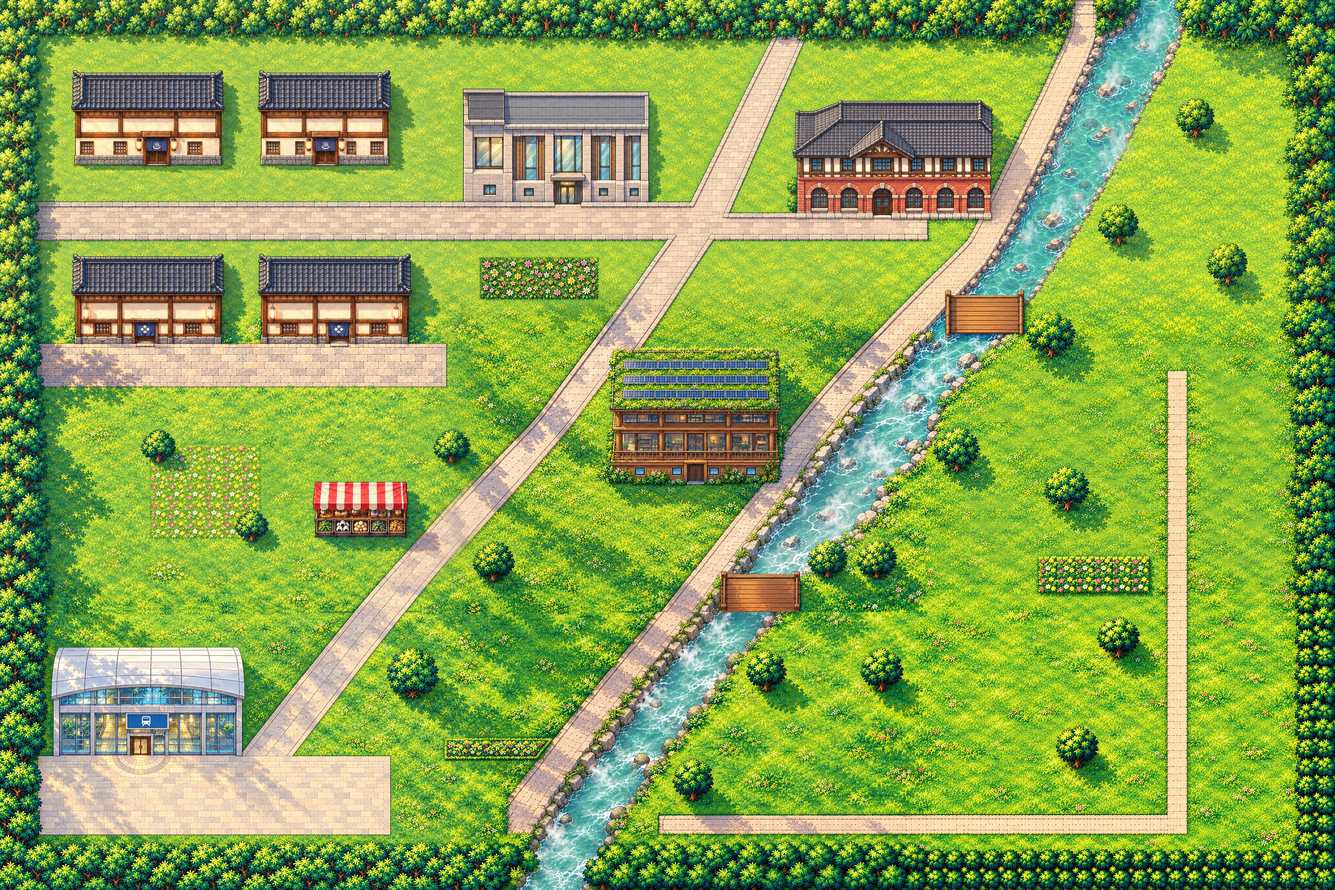
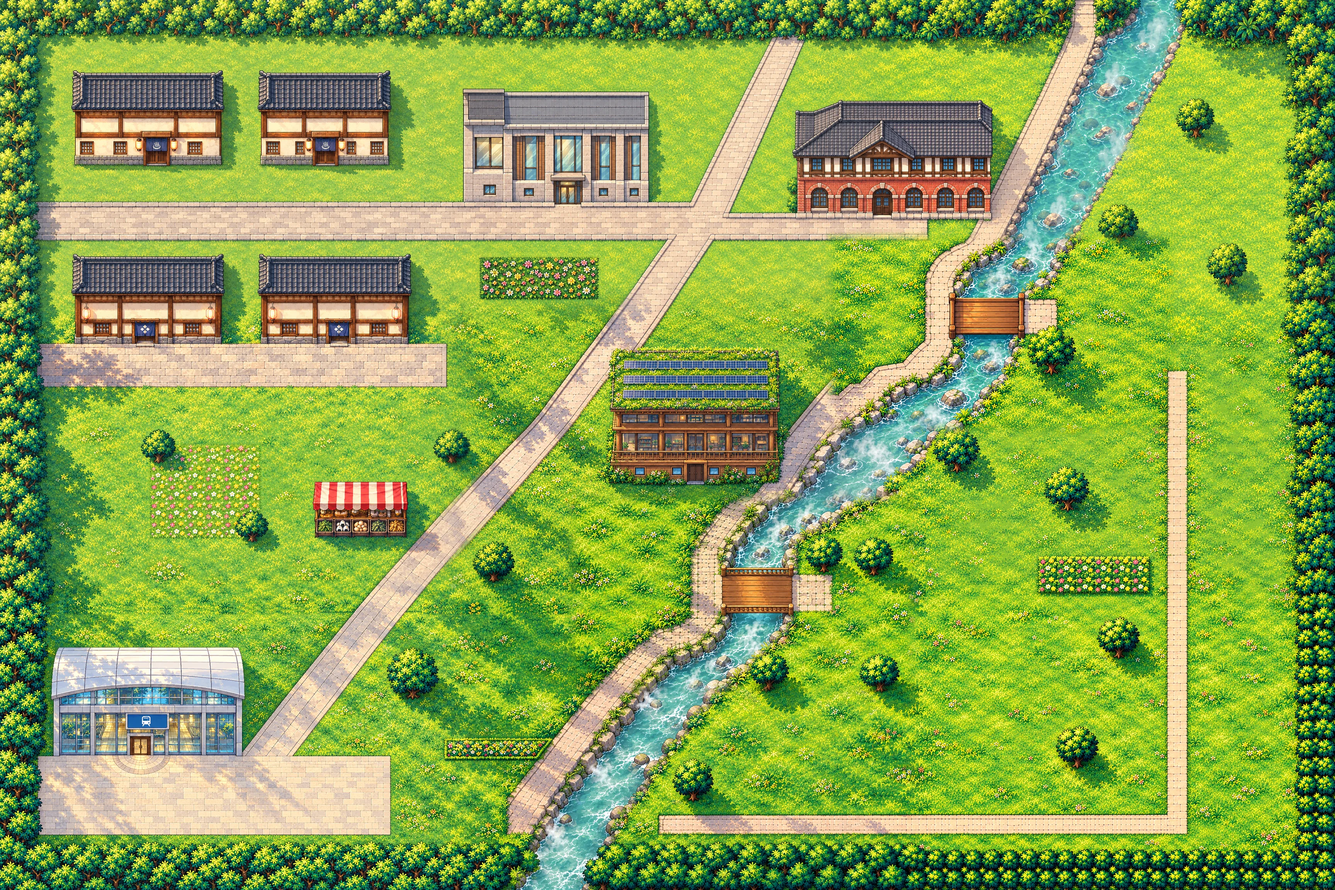
勇者大冒險II — v0.4：北投溪兩座木橋重畫擺正（溪在橋下改直流、兩端接上步道與平台）；野怪每張圖 4～8 隻、活動範圍放大到整片草地（不跨溪、不進街區）；發布腳本改用 PowerShell 7

Changed region(s): [[0.4062, 0.5312, 0.6875, 0.7812], [0.5938, 0.25, 0.9062, 0.5]]

diff --git a/index.html b/index.html
@@ -11,16 +11,16 @@
 <meta name="viewport" content="width=device-width, initial-scale=1, viewport-fit=cover">
 <meta name="description" content="勇者大冒險II（怪盜與家鄉的印章）：給國小四年級的學習冒險遊戲">
 <title>勇者大冒險II</title>
-<link rel="icon" href="assets/ui/icon-192.png?v=946e16a7f0" type="image/png">
+<link rel="icon" href="assets/ui/icon-192.png?v=593367495e" type="image/png">
 <!-- 加入主畫面：Android／Chrome 用 manifest；iPad／iPhone Safari 用下面的 apple-* 設定 -->
-<link rel="manifest" href="manifest.webmanifest?v=946e16a7f0">
+<link rel="manifest" href="manifest.webmanifest?v=593367495e">
 <meta name="theme-color" content="#1d2b5e">
 <meta name="apple-mobile-web-app-capable" content="yes">
 <meta name="mobile-web-app-capable" content="yes">
 <meta name="apple-mobile-web-app-title" content="勇者大冒險II">
 <meta name="apple-mobile-web-app-status-bar-style" content="black-translucent">
-<link rel="apple-touch-icon" href="assets/ui/icon-180.png?v=946e16a7f0">
-<link rel="stylesheet" href="src/ui/style.css?v=946e16a7f0">
+<link rel="apple-touch-icon" href="assets/ui/icon-180.png?v=593367495e">
+<link rel="stylesheet" href="src/ui/style.css?v=593367495e">
 </head>
 <body>
 <!-- 遊戲畫面（Phaser 畫布會放在這裡） -->
@@ -38,104 +38,104 @@
 <noscript><p class="noscript">這個遊戲需要開啟 JavaScript 才能玩。</p></noscript>
 
 <!-- 遊戲引擎：Phaser 4.2.1（MIT，本機保存一份，不連 CDN） -->
-<script src="data/version.js?v=946e16a7f0"></script>
-<script src="lib/phaser.min.js?v=946e16a7f0"></script>
+<script src="data/version.js?v=593367495e"></script>
+<script src="lib/phaser.min.js?v=593367495e"></script>
 <!-- QR Code：qrcode-generator 2.0.4（MIT，本機保存一份） -->
-<script src="lib/qrcode.js?v=946e16a7f0"></script>
+<script src="lib/qrcode.js?v=593367495e"></script>
 
 <!-- 題庫：四年級切片題庫（數學 1、自然 1、社會 1、國語 1–3 課、英語 Unit 1；GDD 3.5） -->
-<script src="data/questions.js?v=946e16a7f0"></script>
+<script src="data/questions.js?v=593367495e"></script>
 <!-- 課程表（地圖→節點累加、配比）、教學卡與賢者教學（GDD 3.2–3.4、7.3 C1–C5；老闆裁示第 10 條） -->
-<script src="data/curriculum.js?v=946e16a7f0"></script>
-<script src="data/teachcards.js?v=946e16a7f0"></script>
+<script src="data/curriculum.js?v=593367495e"></script>
+<script src="data/teachcards.js?v=593367495e"></script>
 
 <!-- 世界資料（劇情設計師、CTO 撰寫） -->
-<script src="data/tilesets.js?v=946e16a7f0"></script>
-<script src="data/tile_frames.js?v=946e16a7f0"></script>
-<script src="data/maps.js?v=946e16a7f0"></script>
-<script src="data/quests.js?v=946e16a7f0"></script>
-<script src="data/dialogs.js?v=946e16a7f0"></script>
-<script src="data/monsters.js?v=946e16a7f0"></script>
-<script src="data/items.js?v=946e16a7f0"></script>
-<script src="data/jobs.js?v=946e16a7f0"></script>
-<script src="data/world.js?v=946e16a7f0"></script>
-<script src="data/sprites.js?v=946e16a7f0"></script>
-<script src="data/dev_world.js?v=946e16a7f0"></script>
-<script src="data/art_manifest.js?v=946e16a7f0"></script>
+<script src="data/tilesets.js?v=593367495e"></script>
+<script src="data/tile_frames.js?v=593367495e"></script>
+<script src="data/maps.js?v=593367495e"></script>
+<script src="data/quests.js?v=593367495e"></script>
+<script src="data/dialogs.js?v=593367495e"></script>
+<script src="data/monsters.js?v=593367495e"></script>
+<script src="data/items.js?v=593367495e"></script>
+<script src="data/jobs.js?v=593367495e"></script>
+<script src="data/world.js?v=593367495e"></script>
+<script src="data/sprites.js?v=593367495e"></script>
+<script src="data/dev_world.js?v=593367495e"></script>
+<script src="data/art_manifest.js?v=593367495e"></script>
 <!-- 語音：說話者音色設定（劇情設計師）、預錄音檔清單（tools/pack_assets.py 產生） -->
-<script src="data/voices.js?v=946e16a7f0"></script>
-<script src="data/voice_manifest.js?v=946e16a7f0"></script>
-<script src="data/dev_sprites.js?v=946e16a7f0"></script>
+<script src="data/voices.js?v=593367495e"></script>
+<script src="data/voice_manifest.js?v=593367495e"></script>
+<script src="data/dev_sprites.js?v=593367495e"></script>
 
 <!-- 可調參數 -->
-<script src="src/config.js?v=946e16a7f0"></script>
+<script src="src/config.js?v=593367495e"></script>
 
 <!-- 系統邏輯（可在 node 測試） -->
-<script src="src/systems/exp.js?v=946e16a7f0"></script>
-<script src="src/systems/answer.js?v=946e16a7f0"></script>
-<script src="src/systems/rewards.js?v=946e16a7f0"></script>
-<script src="src/systems/adaptive.js?v=946e16a7f0"></script>
-<script src="src/systems/hints.js?v=946e16a7f0"></script>
-<script src="src/systems/guard.js?v=946e16a7f0"></script>
-<script src="src/systems/daily.js?v=946e16a7f0"></script>
-<script src="src/systems/playtime.js?v=946e16a7f0"></script>
-<script src="src/systems/state.js?v=946e16a7f0"></script>
-<script src="src/systems/bestiary.js?v=946e16a7f0"></script>
-<script src="src/systems/parentgate.js?v=946e16a7f0"></script>
-<script src="src/systems/save.js?v=946e16a7f0"></script>
-<script src="src/systems/savecode.js?v=946e16a7f0"></script>
-<script src="src/systems/saveprovider.js?v=946e16a7f0"></script>
-<script src="src/systems/counter.js?v=946e16a7f0"></script>
-<script src="src/systems/savetip.js?v=946e16a7f0"></script>
-<script src="src/systems/quest.js?v=946e16a7f0"></script>
-<script src="src/systems/report.js?v=946e16a7f0"></script>
-<script src="src/systems/curriculum.js?v=946e16a7f0"></script>
-<script src="src/systems/session.js?v=946e16a7f0"></script>
-<script src="src/systems/shop.js?v=946e16a7f0"></script>
-<script src="src/systems/world.js?v=946e16a7f0"></script>
-<script src="src/systems/character.js?v=946e16a7f0"></script>
-<script src="src/systems/battle.js?v=946e16a7f0"></script>
-<script src="src/systems/jobtrial.js?v=946e16a7f0"></script>
-<script src="src/systems/questlog.js?v=946e16a7f0"></script>
-<script src="src/systems/chests.js?v=946e16a7f0"></script>
-<script src="src/systems/pathfind.js?v=946e16a7f0"></script>
-<script src="src/systems/move8.js?v=946e16a7f0"></script>
-<script src="src/systems/dirrows.js?v=946e16a7f0"></script>
-<script src="src/systems/texrelease.js?v=946e16a7f0"></script>
-<script src="src/systems/worldmap.js?v=946e16a7f0"></script>
-<script src="src/systems/dialogtext.js?v=946e16a7f0"></script>
-<script src="src/systems/rarechars.js?v=946e16a7f0"></script>
-<script src="src/systems/zoom.js?v=946e16a7f0"></script>
-<script src="src/systems/feedback.js?v=946e16a7f0"></script>
-<script src="src/systems/mapinfo.js?v=946e16a7f0"></script>
-<script src="src/systems/petfollow.js?v=946e16a7f0"></script>
+<script src="src/systems/exp.js?v=593367495e"></script>
+<script src="src/systems/answer.js?v=593367495e"></script>
+<script src="src/systems/rewards.js?v=593367495e"></script>
+<script src="src/systems/adaptive.js?v=593367495e"></script>
+<script src="src/systems/hints.js?v=593367495e"></script>
+<script src="src/systems/guard.js?v=593367495e"></script>
+<script src="src/systems/daily.js?v=593367495e"></script>
+<script src="src/systems/playtime.js?v=593367495e"></script>
+<script src="src/systems/state.js?v=593367495e"></script>
+<script src="src/systems/bestiary.js?v=593367495e"></script>
+<script src="src/systems/parentgate.js?v=593367495e"></script>
+<script src="src/systems/save.js?v=593367495e"></script>
+<script src="src/systems/savecode.js?v=593367495e"></script>
+<script src="src/systems/saveprovider.js?v=593367495e"></script>
+<script src="src/systems/counter.js?v=593367495e"></script>
+<script src="src/systems/savetip.js?v=593367495e"></script>
+<script src="src/systems/quest.js?v=593367495e"></script>
+<script src="src/systems/report.js?v=593367495e"></script>
+<script src="src/systems/curriculum.js?v=593367495e"></script>
+<script src="src/systems/session.js?v=593367495e"></script>
+<script src="src/systems/shop.js?v=593367495e"></script>
+<script src="src/systems/world.js?v=593367495e"></script>
+<script src="src/systems/character.js?v=593367495e"></script>
+<script src="src/systems/battle.js?v=593367495e"></script>
+<script src="src/systems/jobtrial.js?v=593367495e"></script>
+<script src="src/systems/questlog.js?v=593367495e"></script>
+<script src="src/systems/chests.js?v=593367495e"></script>
+<script src="src/systems/pathfind.js?v=593367495e"></script>
+<script src="src/systems/move8.js?v=593367495e"></script>
+<script src="src/systems/dirrows.js?v=593367495e"></script>
+<script src="src/systems/texrelease.js?v=593367495e"></script>
+<script src="src/systems/worldmap.js?v=593367495e"></script>
+<script src="src/systems/dialogtext.js?v=593367495e"></script>
+<script src="src/systems/rarechars.js?v=593367495e"></script>
+<script src="src/systems/zoom.js?v=593367495e"></script>
+<script src="src/systems/feedback.js?v=593367495e"></script>
+<script src="src/systems/mapinfo.js?v=593367495e"></script>
+<script src="src/systems/petfollow.js?v=593367495e"></script>
 
 <!-- 引擎與畫面 -->
-<script src="src/engine/audio.js?v=946e16a7f0"></script>
-<script src="src/engine/sfx.js?v=946e16a7f0"></script>
-<script src="src/engine/voice.js?v=946e16a7f0"></script>
+<script src="src/engine/audio.js?v=593367495e"></script>
+<script src="src/engine/sfx.js?v=593367495e"></script>
+<script src="src/engine/voice.js?v=593367495e"></script>
 <!-- 音樂（作曲家）：music.js 還沒完成時，遊戲用 typeof JQ.Music 檢查後略過 -->
-<script src="data/music.js?v=946e16a7f0"></script>
-<script src="src/engine/music.js?v=946e16a7f0"></script>
-<script src="src/engine/assets.js?v=946e16a7f0"></script>
-<script src="src/ui/dom.js?v=946e16a7f0"></script>
-<script src="src/ui/teachcard.js?v=946e16a7f0"></script>
-<script src="src/ui/quiz.js?v=946e16a7f0"></script>
-<script src="src/ui/trial.js?v=946e16a7f0"></script>
-<script src="src/ui/hud.js?v=946e16a7f0"></script>
-<script src="src/ui/menus.js?v=946e16a7f0"></script>
-<script src="src/ui/settings.js?v=946e16a7f0"></script>
-<script src="src/ui/opening.js?v=946e16a7f0"></script>
-<script src="src/ui/title.js?v=946e16a7f0"></script>
+<script src="data/music.js?v=593367495e"></script>
+<script src="src/engine/music.js?v=593367495e"></script>
+<script src="src/engine/assets.js?v=593367495e"></script>
+<script src="src/ui/dom.js?v=593367495e"></script>
+<script src="src/ui/teachcard.js?v=593367495e"></script>
+<script src="src/ui/quiz.js?v=593367495e"></script>
+<script src="src/ui/trial.js?v=593367495e"></script>
+<script src="src/ui/hud.js?v=593367495e"></script>
+<script src="src/ui/menus.js?v=593367495e"></script>
+<script src="src/ui/settings.js?v=593367495e"></script>
+<script src="src/ui/opening.js?v=593367495e"></script>
+<script src="src/ui/title.js?v=593367495e"></script>
 <!-- 四年級版標題動畫（封面 v1；WebGL 位移貼圖，沒有 WebGL 時留靜態封面） -->
-<script src="src/ui/title_anim_g4.js?v=946e16a7f0"></script>
-<script src="src/ui/qr.js?v=946e16a7f0"></script>
-<script src="src/ui/worldmap.js?v=946e16a7f0"></script>
-<script src="src/ui/minimap.js?v=946e16a7f0"></script>
-<script src="src/scenes/MapScene.js?v=946e16a7f0"></script>
-<script src="src/scenes/BattleScene.js?v=946e16a7f0"></script>
-<script src="src/fx/skillfx.js?v=946e16a7f0"></script>
-<script src="src/game.js?v=946e16a7f0"></script>
-<script src="src/main.js?v=946e16a7f0"></script>
+<script src="src/ui/title_anim_g4.js?v=593367495e"></script>
+<script src="src/ui/qr.js?v=593367495e"></script>
+<script src="src/ui/worldmap.js?v=593367495e"></script>
+<script src="src/ui/minimap.js?v=593367495e"></script>
+<script src="src/scenes/MapScene.js?v=593367495e"></script>
+<script src="src/scenes/BattleScene.js?v=593367495e"></script>
+<script src="src/fx/skillfx.js?v=593367495e"></script>
+<script src="src/game.js?v=593367495e"></script>
+<script src="src/main.js?v=593367495e"></script>
 </body>
 </html>

diff --git a/data/maps.js b/data/maps.js
@@ -93,7 +93,7 @@ window.MAPS = {
     ],
     chests: [],
     spawns: [
-      {"monster":"strap","count":3,"area":[21,27,23,10]}
+      {"monster":"strap","count":5,"area":[21,27,23,10]}
     ],
     inn: {"npc":"inn","price":0,"x":11,"y":28,"name":"博覽會休息站","sign":"休息","freeIfBroke":true},
     shop: {"shop_id":"expo","npc":"shop","x":54,"y":27}
@@ -119,28 +119,28 @@ window.MAPS = {
       "TT=====================================....HHHHDHHHHH==~~~~...........TT",
       "TT====================================..............===~~~..T.........TT",
       "TT..................................==..............==~~~.............TT",
-      "TT..RRRRRRRR..RRRRRRRR....,,,,,,...==..............==~~~~.........T...TT",
-      "TT..RRRRRRRR..RRRRRRRR....,,,,,,..==..............==~~~~..............TT",
-      "TT..HHHHHHHH..HHHHHHHH...........==..............==BBBB...............TT",
-      "TT..HHHHHHHH..HHHHHHHH..........==..............==~BBBB...............TT",
-      "TT..HHHDHHHH..HHHHDHHH..........==..............==~~~~..T.............TT",
-      "TT======================.......==RRRRRRRRR.....==~~~=.................TT",
-      "TT======================......==.RRRRRRRRR....==~~~~...........=......TT",
-      "TT...........................==..RRRRRRRRR...==~~~~............=......TT",
-      "TT..........................==...HHHHHHHHH..==~~~~.............=......TT",
+      "TT..RRRRRRRR..RRRRRRRR....,,,,,,...==.............==~~~~~.........T...TT",
+      "TT..RRRRRRRR..RRRRRRRR....,,,,,,..==.............===~~~~..............TT",
+      "TT..HHHHHHHH..HHHHHHHH...........==..............==BBBB==.............TT",
+      "TT..HHHHHHHH..HHHHHHHH..........==...............==BBBB==.............TT",
+      "TT..HHHDHHHH..HHHHDHHH..........==...............==~~~~.T.............TT",
+      "TT======================.......==RRRRRRRRR.....====~~~................TT",
+      "TT======================......==.RRRRRRRRR....====~~~~.........=......TT",
+      "TT...........................==..RRRRRRRRR...===~~~~~..........=......TT",
+      "TT..........................==...HHHHHHHHH..===~~~~~...........=......TT",
       "TT..........................==...HHHHHHHHH..==~~~~.............=......TT",
       "TT......T,,,,,..........T..==....HHHHHHHHH.==~~~~..T...........=......TT",
       "TT......,,,,,,............==.....HHHHDHHHH==~~~~...............=......TT",
-      "TT......,,,,,,...RRRRR...==..............==~~~~~.........T.....=......TT",
-      "TT......,,,,,,...RRRRR..==..............==~~~~~................=......TT",
-      "TT......,,,,,T...KKKKK..==..............==~~~~.................=......TT",
-      "TT.....................==..............==~~~...................=......TT",
-      "TT....................==..T...........==~~~~T.T.........,,,,,,.=......TT",
-      "TT...................==..............==BBBB.............,,,,,,.=......TT",
-      "TT..................==..............==~BBBB....................=......TT",
-      "TT..................==..............==~~~=.....................=......TT",
-      "TT.................==..............==~~~~...................T..=......TT",
-      "TT.RRRRRRRRRR.....==..............==~~~~.......................=......TT",
+      "TT......,,,,,,...RRRRR...==..............==~~~~=.........T.....=......TT",
+      "TT......,,,,,,...RRRRR..==..............=~~~~..................=......TT",
+      "TT......,,,,,T...KKKKK..==..............=~~~...................=......TT",
+      "TT.....................==.............==~~~....................=......TT",
+      "TT....................==..T..........==~~~~.T.T.........,,,,,,.=......TT",
+      "TT...................==..............==BBBB==...........,,,,,,.=......TT",
+      "TT..................==...............==BBBB==..................=......TT",
+      "TT..................==...............==~~~~....................=......TT",
+      "TT.................==..............===~~~~..................T..=......TT",
+      "TT.RRRRRRRRRR.....==..............==~~~~~......................=......TT",
       "TT.RRRRRRRRRR....==...T..........==~~~~..T.....T...............=......TT",
       "TT.RRRRRRRRRR...==..............===~~~.........................=......TT",
       "TT.HHHHHHHHHH...==..............==~~~..........................=......TT",
@@ -191,9 +191,9 @@ window.MAPS = {
       {"id":"C_T02_1","x":61,"y":22,"subject":"數學","level":2,"reward":{"gold":30,"item":null}}
     ],
     spawns: [
-      {"monster":"strap","count":2,"area":[44,36,14,7]},
-      {"monster":"compass","count":3,"area":[59,11,9,10]},
-      {"monster":"bookworm","count":3,"area":[25,28,9,8]}
+      {"monster":"strap","count":3,"area":[43,30,16,14]},
+      {"monster":"compass","count":3,"area":[59,2,11,42]},
+      {"monster":"bookworm","count":2,"area":[27,26,8,11]}
     ],
     extra_shops: [
       {"shop_id":"stall","npc":"stall","x":19,"y":29}
@@ -275,9 +275,9 @@ window.MAPS = {
       {"id":"C_T03_1","x":50,"y":31,"subject":"數學","level":3,"reward":{"gold":30,"item":null}}
     ],
     spawns: [
-      {"monster":"sparrow","count":3,"area":[3,8,11,12]},
-      {"monster":"steam","count":3,"area":[42,8,11,12]},
-      {"monster":"bookworm","count":2,"area":[3,22,13,12]},
+      {"monster":"sparrow","count":2,"area":[2,2,12,17]},
+      {"monster":"steam","count":3,"area":[42,2,12,35]},
+      {"monster":"bookworm","count":2,"area":[2,19,20,18]},
       {"monster":"dudu","count":1,"area":[28,4,1,1],"boss":true,"quest":"Q4_T03_B"}
     ]
   }

diff --git a/data/version.js b/data/version.js
@@ -1,2 +1,2 @@
 /* 由 tools/stamp_version.py 自動產生：這一版的版本號（圖檔、音檔網址後面加 ?v=版本號，避免瀏覽器快取到舊檔）。請勿手動修改。 */
-window.JQ_VERSION = '946e16a7f0';
+window.JQ_VERSION = '593367495e';
